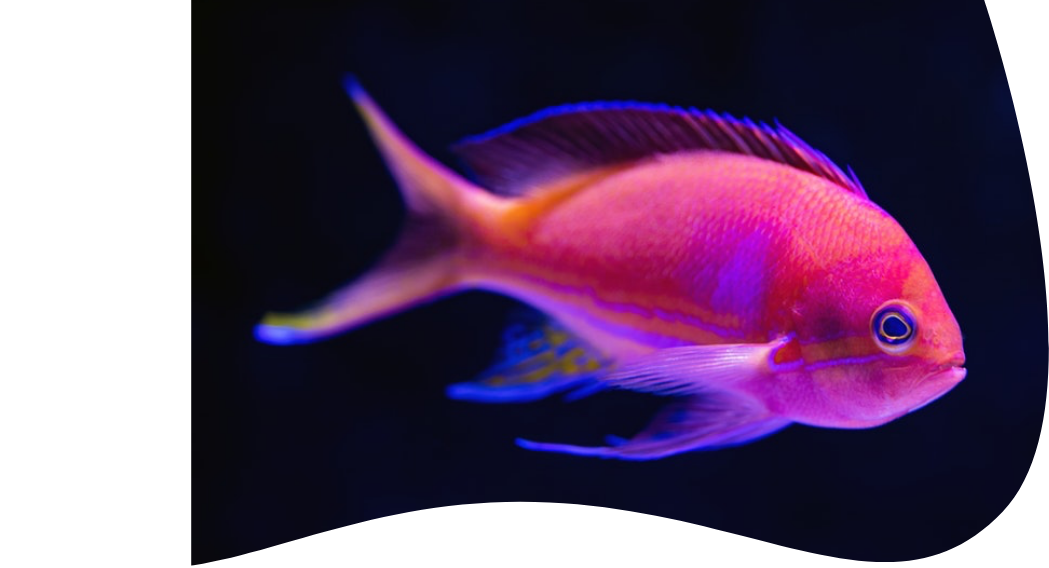
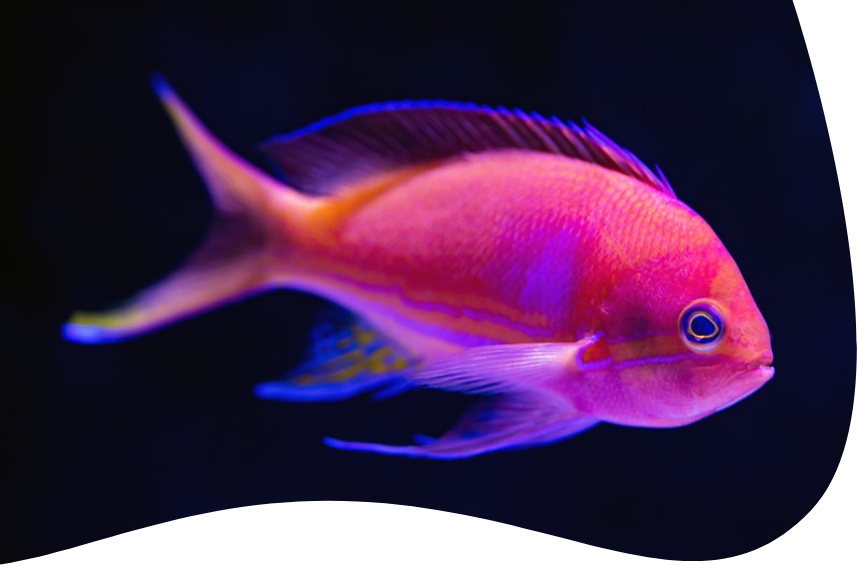
completed column section

diff --git a/index.html b/index.html
@@ -46,22 +46,29 @@
         
         <div class="columns">
             <div class="col">
-                <img src="" class="big-icons">
+                <div class="big-icons">
+                    <img src="icons/sharkfin.svg">
+                </div>
                 <h3>About Us</h3>
                 <p class="col-text">The quick, brown fox jumps over a lazy dog. DJs flock by when MTV ax quiz prog. Junk MTV quiz graced by fox</p>
             </div>
             <div class="col">
-                <img src="" class="big-icons">
+                <div class="big-icons">
+                    <img src="icons/calendar.svg">
+                </div>
                 <h3>Date & Time</h3>
                 <p class="col-text">The quick, brown fox jumps over a lazy dog. DJs flock by when MTV ax quiz prog. Junk MTV quiz graced by fox</p>
             </div>
             <div class="col">
-                <img src="" class="big-icons">
+                <div class="big-icons">
+                    <img src="icons/large-pin.svg">
+                </div>    
                 <h3>Location</h3>
                 <p class="col-text">The quick, brown fox jumps over a lazy dog. DJs flock by when MTV ax quiz prog. Junk MTV quiz graced by fox</p>
             </div>
         </div>
         
+
         <div class="map">
              <img src="" id="directions">
             <img src="" id="pin">
@@ -70,7 +77,7 @@
                 <p id="location">Black Light Aquarium</p>
             </div> 
         </div>
-        
+ <!--       
         <footer>
             <p class="copyright">&copy; Copyright 2018| </p>
             <p class="copyright">Designed by <span class="creators">FarnooshJml</span> for <span class="creators">XDdailychallenge</span></p>
@@ -80,5 +87,6 @@
                 <li class="small-icons"><img src=""></li>
             </ul> 
         </footer> 
+-->
     </div>
 </body>

diff --git a/css/style.css b/css/style.css
@@ -9,7 +9,7 @@ Purple: #9A4D9F;
 *******/
 
 body {   
-    font-family: 'Lato', 'Montserrat', sans-serif;
+    font-family: 'Montserrat', 'Lato', sans-serif;
     margin: 0;
     background-color: #9A4D9F;
 }
@@ -41,7 +41,6 @@ nav * {
     font-size: 20px;
     font-weight: 600;
     letter-spacing: 1px;
-    font-family: 'Montserrat', sans-serif;   
 }
 
 .logo {
@@ -74,7 +73,6 @@ li {
     color: #FFF;
     text-transform: uppercase;
     font-size: 12px;
-    font-family: 'Montserrat', sans-serif;
     font-weight: 600;
 }
 
@@ -90,7 +88,7 @@ li {
 .hero {
     display: grid;
     grid-template-columns: 60% 40%;
-    min-height: 700px
+    min-height: 600px;
 }
 
 .hero-image {
@@ -102,15 +100,15 @@ li {
     z-index: 1;
     right: 0;
     top: -80px;
+    min-width: 100%;
+    min-height: 100%;
 }
 
 .hero-description {
     grid-column: 2 / span 1;
     display: flex;
     flex-direction: column;
-    align-items: center;
-    font-family: "Montserrat";
-    
+    align-items: center;    
 }
 
 .date {
@@ -183,15 +181,31 @@ h2 {
 
 .columns {
     display: grid;
-    grid-template-columns: 1fr 1fr 1fr;    
+    grid-template-columns: 1fr 1fr 1fr;
+    grid-gap: 7%;    
+    margin: 0 7%;    
 }
 
 .col {
     display: flex;
     flex-direction: column;
     align-items: center;
+    font-size: 24px;
 }
 
+h3 {
+    font-weight: 700;
+    margin-bottom: 0;
+}
+
+.big-icons {
+    min-height: 80px;
+}
+
+.col-text{
+    text-align: center;
+    font-weight: 200;
+}
 
 .map {
 }
